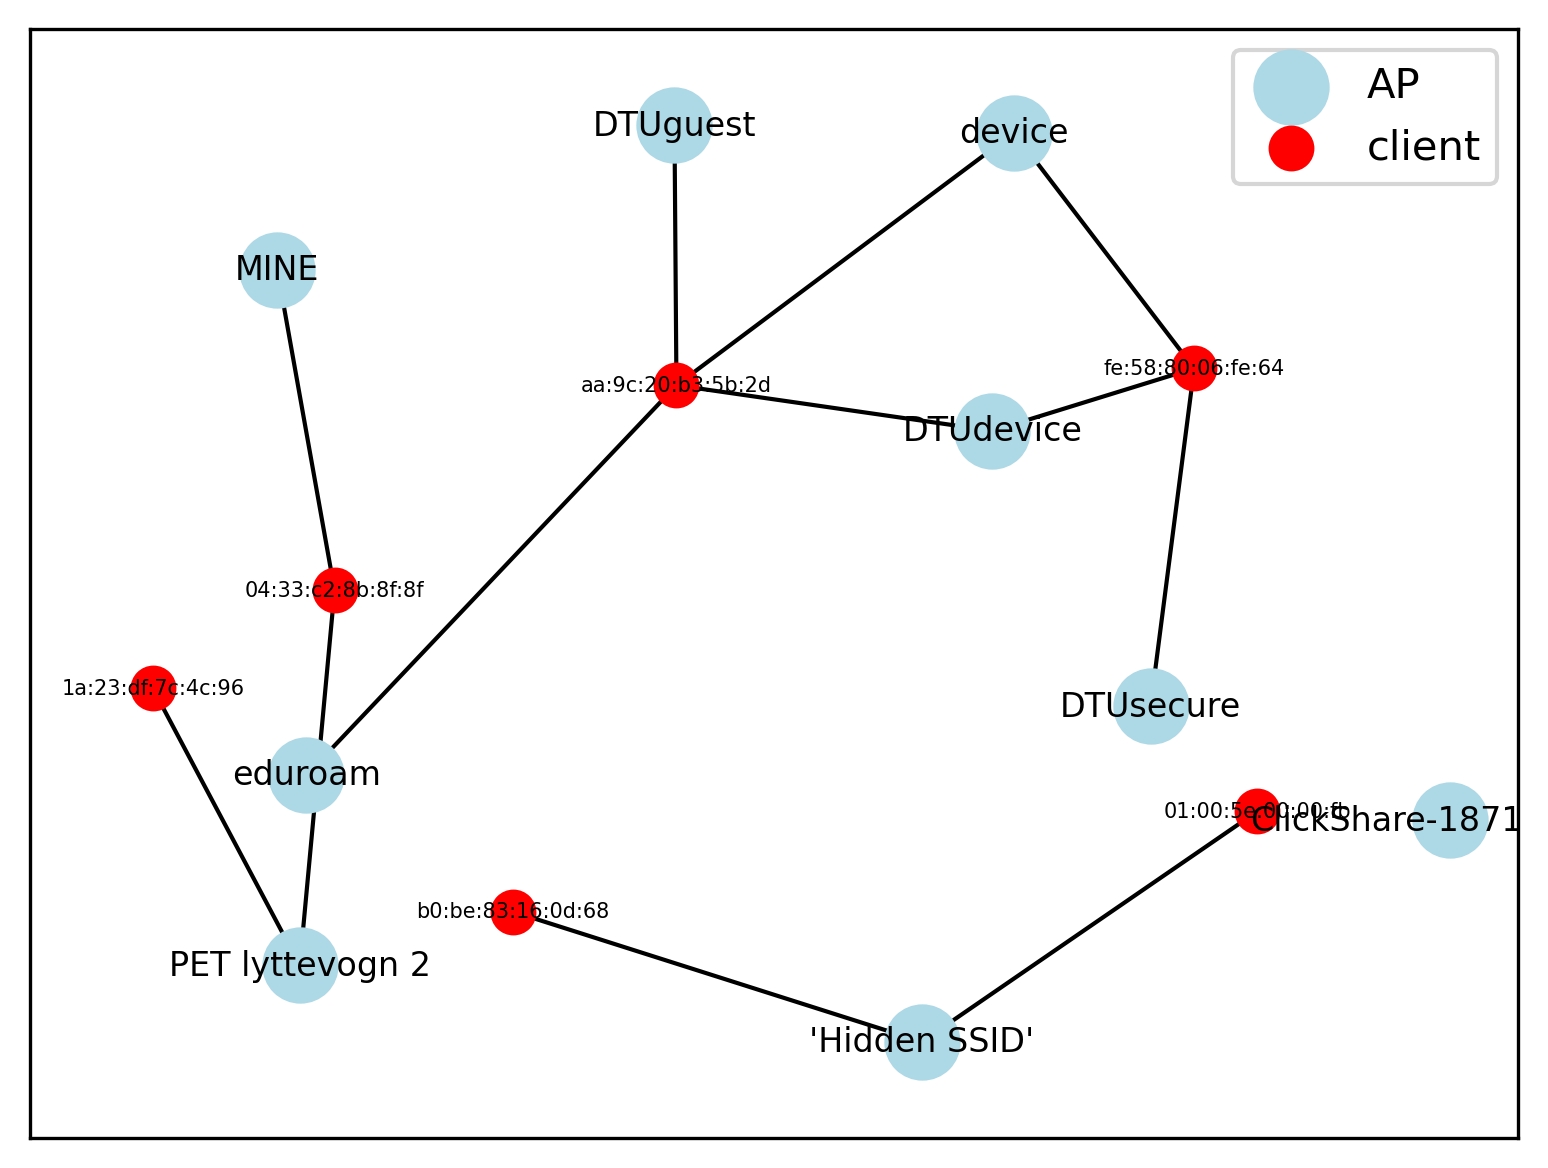
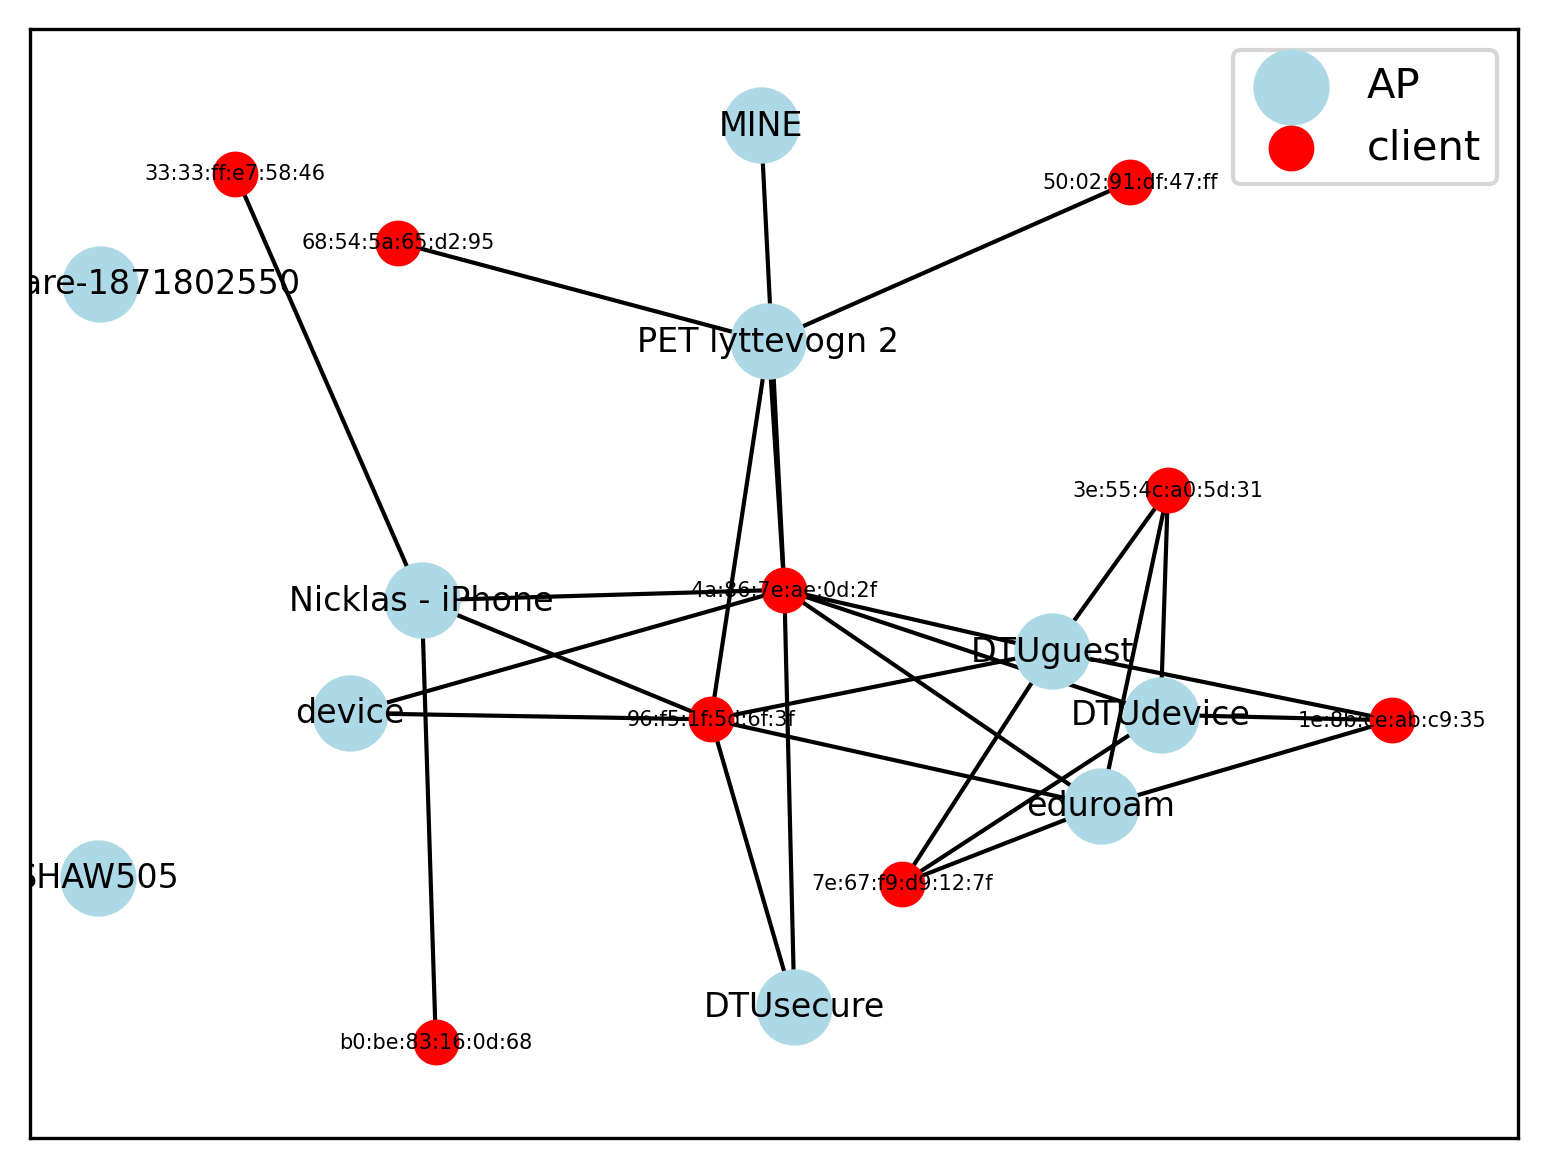
YAY!

diff --git a/wifitool/scan_networks/scanner.py b/wifitool/scan_networks/scanner.py
@@ -76,7 +76,7 @@ class Scanner:
         return scan
 
 
-    def save_scan(self, filename: str) -> None:
+    def save_scan(self) -> None:
         """
         Saves the topology to a file in JSON format:
         {Num_of_wifis: , scan_time: , interface: , TIMEOUT: , Topology: 
@@ -90,16 +90,14 @@ class Scanner:
         scan = self.create_json()
 
         # save the dictionary to the file
-        with open(filename, "w") as file:
+        with open("network_topology.json", "w") as file:
             json.dump(scan, file, indent=4)
-        print(f"Network topology has been saved to file {filename}")
-        LOGGER.info(f"Network scan has been saved to file {filename}")
+        print(f"Network topology has been saved to file network_topology.json")
+        LOGGER.info(f"Network scan has been saved to file")
 
-    def png_scan(self, filename: str) -> None:
+    def png_scan(self) -> None:
         
         topology_json = self.create_json()
-
-        file = filename + '.png'
 
         # Create an empty graph
         graph = nx.Graph()
@@ -109,29 +107,42 @@ class Scanner:
             graph.add_node(ssid, label=ssid, is_client=False)
             for client in info['CLIENTS']:
                 graph.add_node(client, label=client, is_client=True)
-
-        # Add edges to the graph
-        for ssid, info in topology_json['Topology'].items():
-            for client in info['CLIENTS']:
                 graph.add_edge(ssid, client)
 
+
+        # # Add edges to the graph
+        # for ssid, info in topology_json['Topology'].items():
+        #     for client in info['CLIENTS']:
+        #         graph.add_edge(ssid, client)
+
         # Set the positions of the nodes
-        pos = nx.spring_layout(graph, k=1)
+        pos = nx.spring_layout(graph, k=1, iterations=50)
 
         # Draw access points
-        nx.draw_networkx_nodes(graph, pos, nodelist=[node for node in graph.nodes if not graph.nodes[node]['is_client']], node_color='blue')
+        nx.draw_networkx_nodes(graph, pos, nodelist=[node for node in graph.nodes if not graph.nodes[node]['is_client']], node_color='lightblue', node_size=300)
 
         # Draw clients
-        nx.draw_networkx_nodes(graph, pos, nodelist=[node for node in graph.nodes if graph.nodes[node]['is_client']], node_color='red')
+        nx.draw_networkx_nodes(graph, pos, nodelist=[node for node in graph.nodes if graph.nodes[node]['is_client']], node_color='red', node_size=100)
 
         # Draw edges
         nx.draw_networkx_edges(graph, pos)
 
-        # Draw labels
-        nx.draw_networkx_labels(graph, pos, labels=nx.get_node_attributes(graph, 'label'), font_color='white')
+        # Draw labels with adjusted positions to avoid overlap
+        node_labels = nx.get_node_attributes(graph, 'label')
+        label_pos = {node: (pos[node][0], pos[node][1] + 0.00) for node in graph.nodes}
+        ap_labels = {node: label for node, label in node_labels.items() if not graph.nodes[node]['is_client']}
+        nx.draw_networkx_labels(graph, label_pos, labels=ap_labels, font_color='black', font_size=8)
+
+        # Set the font size for client labels
+        client_labels = {node: label for node, label in node_labels.items() if graph.nodes[node]['is_client']}
+        nx.draw_networkx_labels(graph, label_pos, labels=client_labels, font_color='black', font_size=5)
+
+        # labels
+        plt.legend(["AP", "client"])
 
         # Save the graph as a PNG file
         plt.savefig('network_topology.png', format='png', bbox_inches='tight', dpi=300)
+        plt.clf()
 
     def scan(self, timeout: int = 0) -> None:
         """
@@ -175,7 +186,7 @@ class Scanner:
         # get the name of it
         stats = packet[Dot11Beacon].network_stats()
         ssid = stats['ssid'].strip()
-        if not ssid:
+        if not ssid or ssid == "\u0000\u0000\u0000\u0000\u0000\u0000\u0000\u0000\u0000\u0000\u0000\u0000\u0000\u0000\u0000\u0000":
             ssid = "'Hidden SSID'"
         if ssid in self.wifis:
             return
@@ -214,11 +225,15 @@ class Scanner:
         if self.from_client(packet):
             # extract the MAC address of the client
             src_BSSID = packet[Dot11].addr2
+            if src_BSSID == "ff:ff:ff:ff:ff:ff":
+                return client_list
             if packet[Dot11].addr1 in wifis_list_of_bssid:
                 client_list.append([src_BSSID, packet[Dot11].addr1])
         else:
             # extract the MAC address of the Client
             dst_BSSID = packet[Dot11].addr1
+            if dst_BSSID == "ff:ff:ff:ff:ff:ff":
+                return client_list
             # check if source address is as specified
             if packet[Dot11].addr2 in wifis_list_of_bssid:
                 client_list.append([dst_BSSID, packet[Dot11].addr2])

diff --git a/wifitool/scan_networks/cli.py b/wifitool/scan_networks/cli.py
@@ -102,15 +102,11 @@ def scan_menu(scanner: Scanner):
         LOGGER.info("Beacon attack complete.")
     elif action == "7":
         LOGGER.info("Saving scan...")
-        filename = input("Filename: ")
-        scanner.save_scan(filename=
-                            filename if filename.endswith(".json") else filename + ".json"
-                            )
+        scanner.save_scan()
         LOGGER.info("Scan saved.")
     elif action == "8":
         LOGGER.info("Saving scan as pdf...")
-        filename = input("Filename: ")
-        scanner.png_scan(filename=filename)
+        scanner.png_scan()
         LOGGER.info("Scan saved as pdf.")
     elif action == "9":
         print("\033c")
